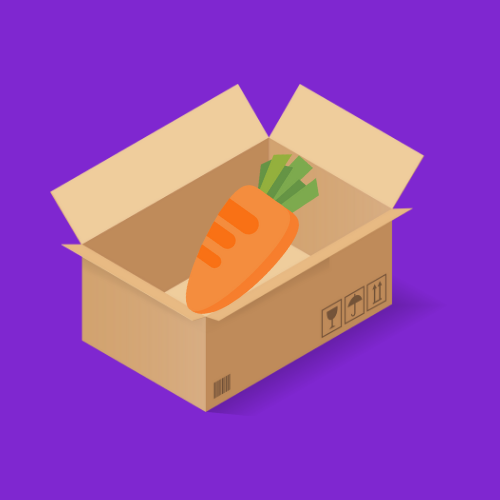
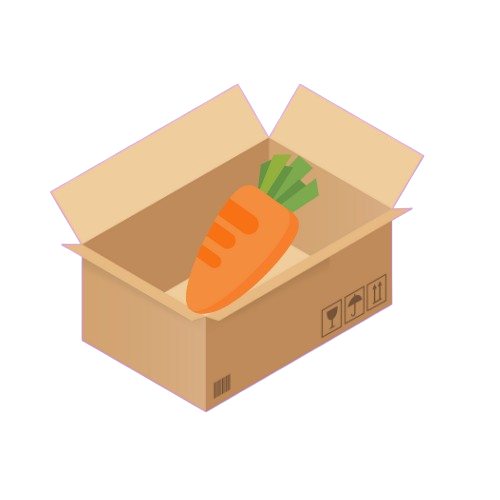
Updated Images

diff --git a/index.html b/index.html
@@ -72,7 +72,12 @@
         </div>
 
         <div class="carrotBoxes">
-
+            <div class="player1Box">
+                <img src="./Images/Boxes/close.png" alt="Closed Box Image">
+            </div>
+            <div class="player2Box">
+                <img src="./Images/Boxes/close.png" alt="Closed Box Image">
+            </div>
         </div>
 
 

diff --git a/styles/style.css b/styles/style.css
@@ -58,3 +58,8 @@
 .nameInput:focus {
     border-bottom: 10px solid #F1DDCF;
 }
+
+/* Box Images */
+.carrotBoxes div img{
+    background-color: transparent;
+}
